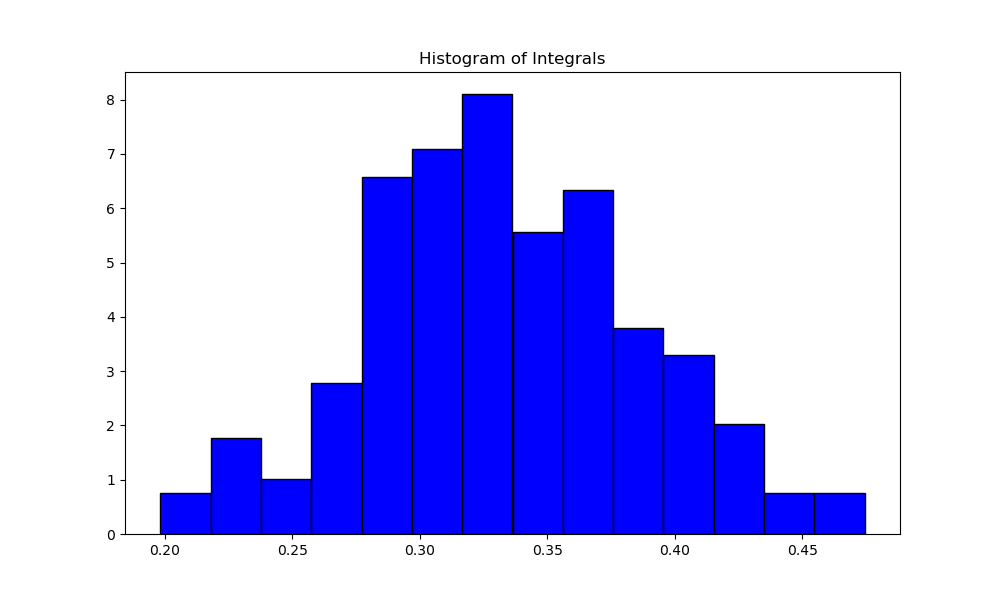
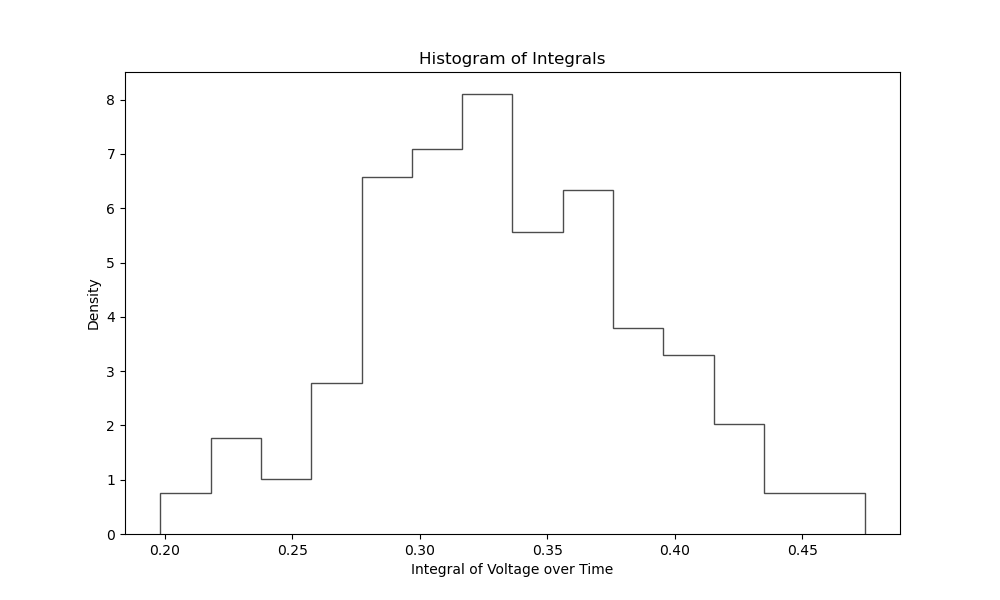
Changed some plots and added print statements to track progress. Also added a method to stop the wave generator for cleaner scope data.

Changed region(s): [[0.155, 0.15, 0.868, 0.9], [0.403, 0.93, 0.62, 0.96], [0.093, 0.51, 0.124, 0.54]]

diff --git a/analysis.py b/analysis.py
@@ -6,10 +6,12 @@ import time
 
 start_time = time.time()
 
+
 def import_data(file_path):
     # Assuming the data is in CSV format with columns: Time, Voltage
     data = pd.read_csv(file_path, skiprows=9)
-    return data['Time (s)'], data['Channel 1 (V)']
+    return data["Time (s)"], data["Channel 1 (V)"]
+
 
 i = "0001"
 
@@ -17,32 +19,36 @@ integral_list = []
 
 while os.path.exists(f"Data/acq{i}.csv"):
     times, voltage = import_data(f"Data/acq{i}.csv")
-    
+
     integral = np.trapezoid(voltage, times)
-    
-    print(f"Integral for acq{i}.csv: {integral:.4f}")
-    
+
+    print(f"Integral for acq{i}.csv: {integral:.4f}", end="\r")
+
     i = str(int(i) + 1).zfill(4)
-    
+
     integral_list.append(integral)
-    
+
     # plt.figure(figsize=(10, 6))
     # plt.plot(times, voltage)
     # plt.title(f"Voltage vs Time for acq{i}.csv")
     # plt.xlabel("Time (s)")
     # plt.ylabel("Voltage (V)")
     # plt.savefig(f"Figures/acq/acq{i}.png")
-    
+
 
 plt.figure(figsize=(10, 6))
-plt.hist(integral_list, bins=int(np.sqrt(len(integral_list))), color='blue', edgecolor='black', density=True)
+counts, bins = np.histogram(
+    integral_list,
+    bins=int(np.sqrt(len(integral_list))),
+    density=True,
+)
+plt.stairs(counts, bins, edgecolor="black", alpha=0.7)
+plt.xlabel("Integral of Voltage over Time")
+plt.ylabel("Density")
 
 end_time = time.time()
 
-plt.title('Histogram of Integrals')
+plt.title("Histogram of Integrals")
 plt.savefig("Figures/integral_histogram.png")
 
 print(f"Processed {len(integral_list)} files in {end_time - start_time:.2f} seconds.")
-
-print("No more files to process.")
-